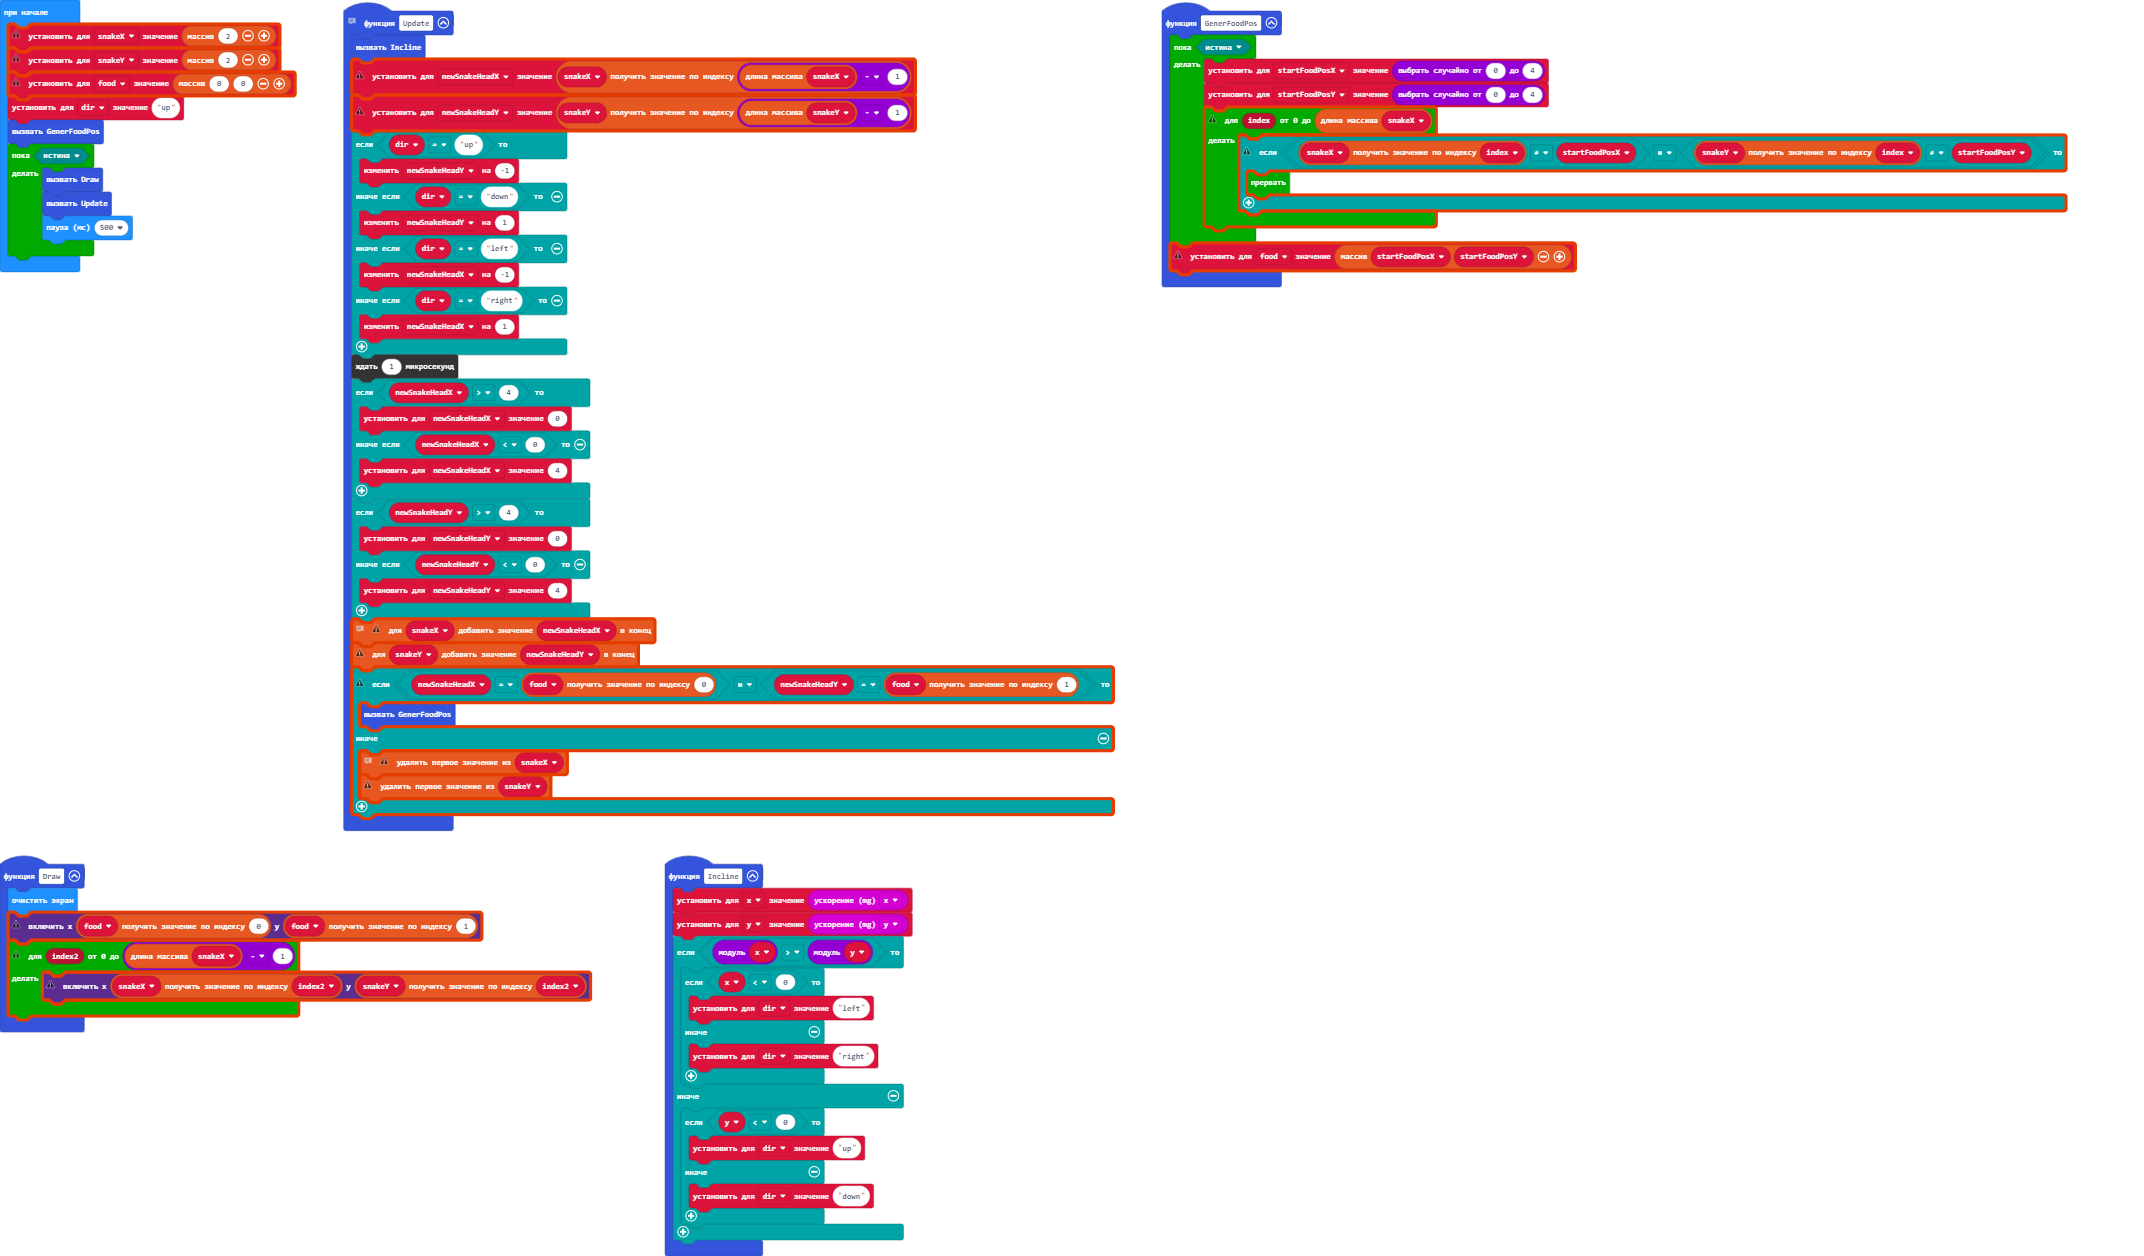
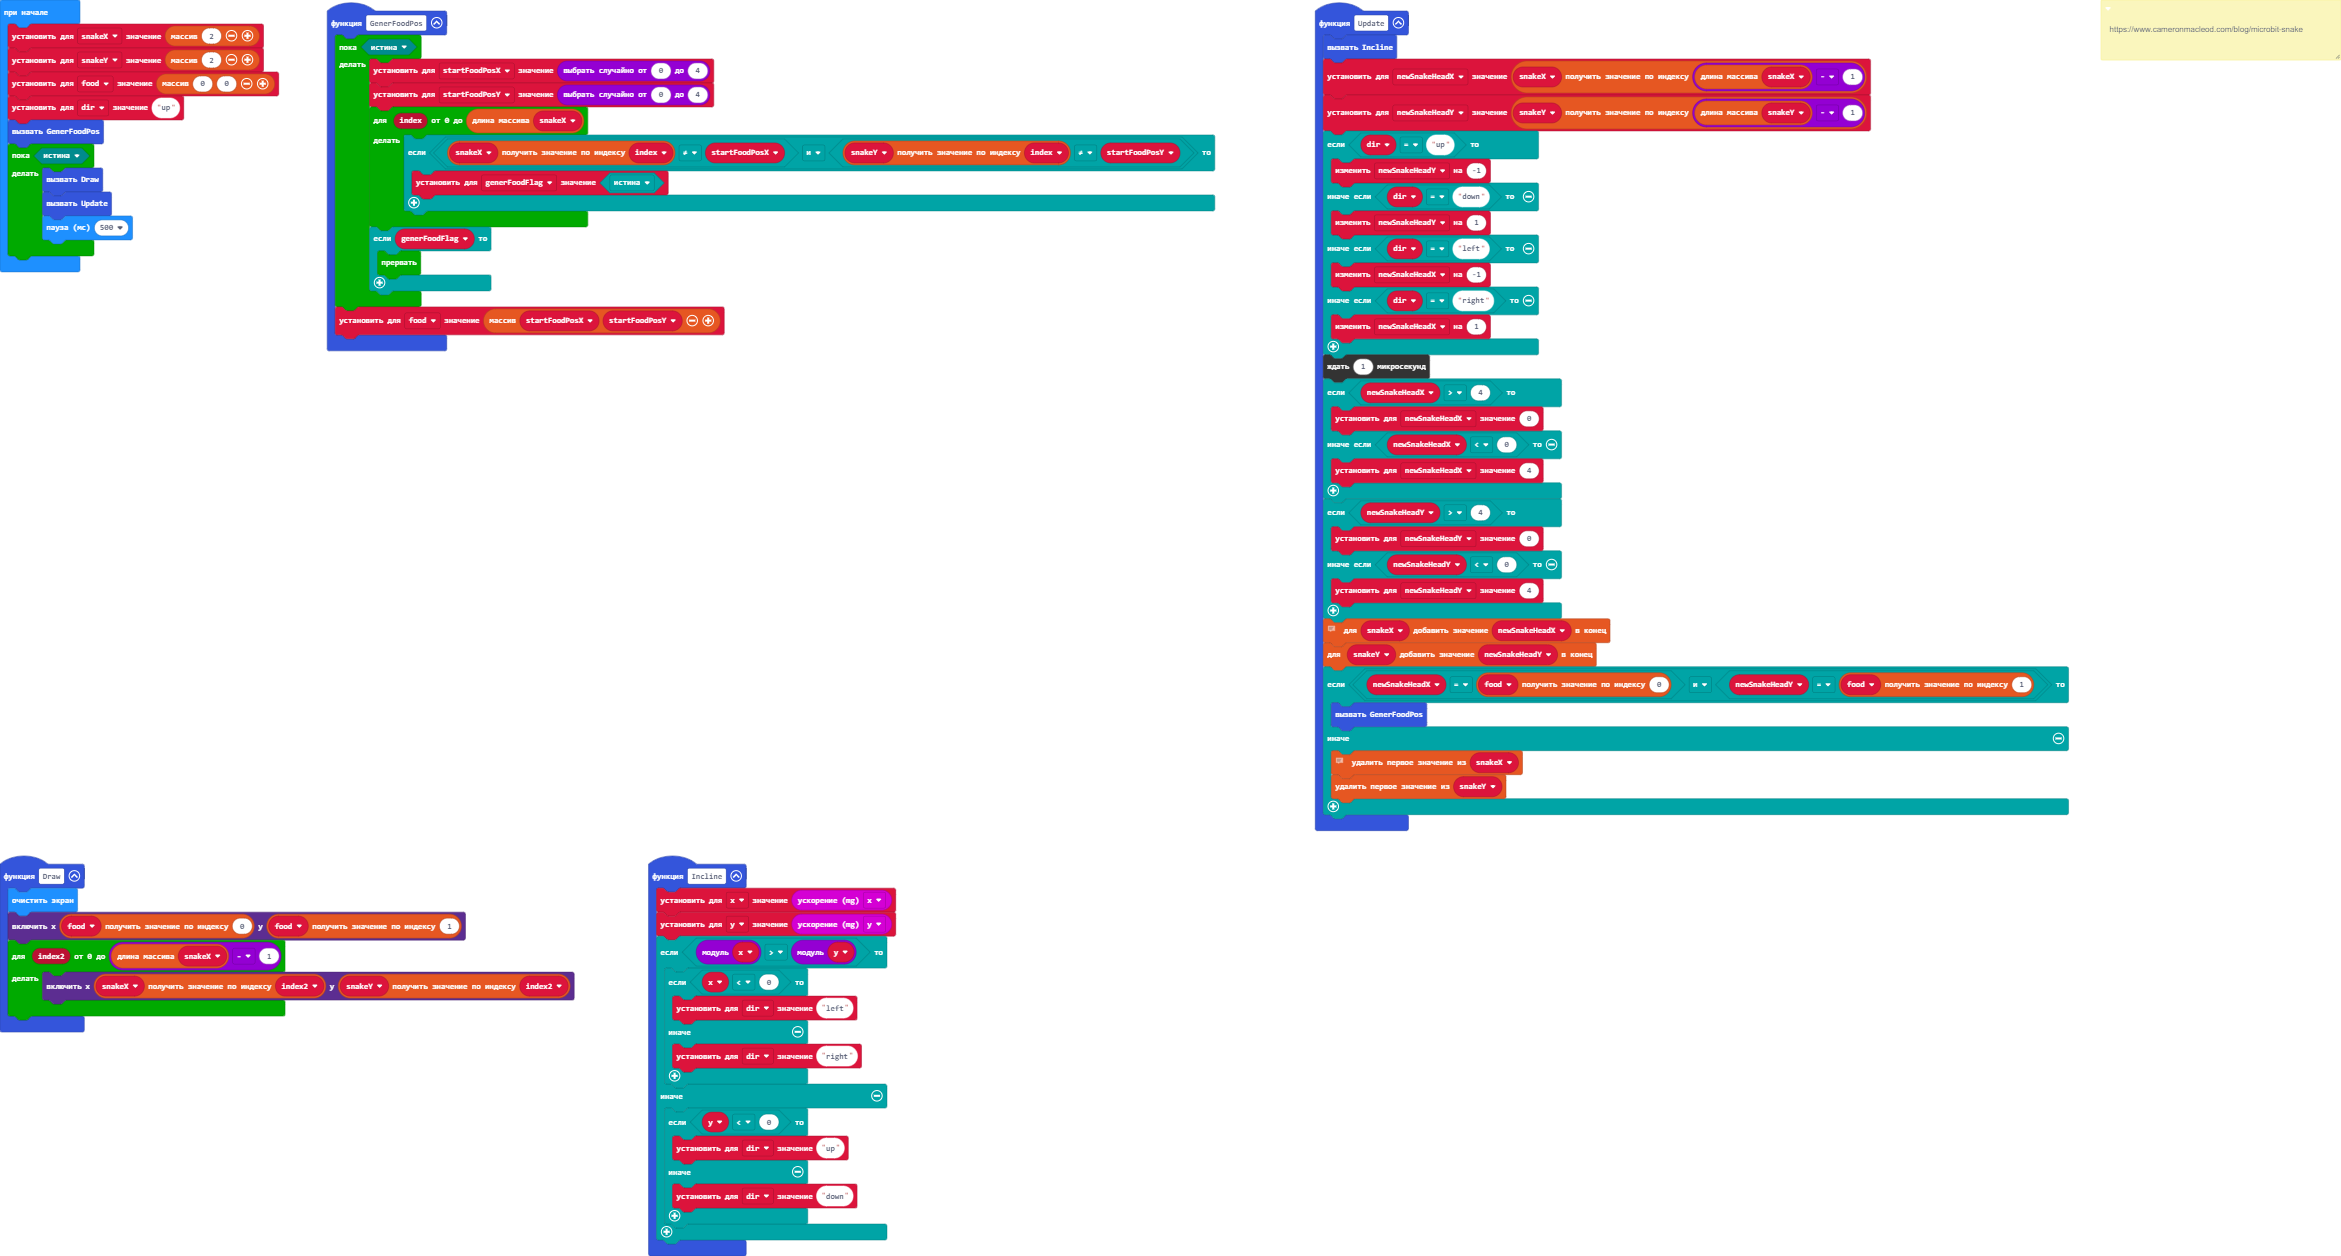
22_10

Changed region(s): [[0.0, 0.0, 0.9688, 0.6831], [0.0, 0.6831, 0.4375, 1.0], [0.875, 0.0, 1.0, 0.0621]]

diff --git a/main.ts b/main.ts
@@ -1,4 +1,6 @@
-// https://www.cameronmacleod.com/blog/microbit-snake
+/**
+ * https://www.cameronmacleod.com/blog/microbit-snake
+ */
 function Update () {
     Incline()
     newSnakeHeadX = snakeX[snakeX.length - 1]
@@ -40,8 +42,11 @@ function GenerFoodPos () {
         startFoodPosY = randint(0, 4)
         for (let index = 0; index <= snakeX.length; index++) {
             if (snakeX[index] != startFoodPosX && snakeY[index] != startFoodPosY) {
-                break;
+                generFoodFlag = true
             }
+        }
+        if (generFoodFlag) {
+            break;
         }
     }
     food = [startFoodPosX, startFoodPosY]
@@ -72,14 +77,15 @@ function Incline () {
 }
 let y = 0
 let x = 0
+let generFoodFlag = false
 let startFoodPosY = 0
 let startFoodPosX = 0
 let newSnakeHeadY = 0
 let newSnakeHeadX = 0
 let dir = ""
-let food = 0
-let snakeY = 0
-let snakeX = 0
+let food: number[] = []
+let snakeY: number[] = []
+let snakeX: number[] = []
 snakeX = [2]
 snakeY = [2]
 food = [0, 0]
